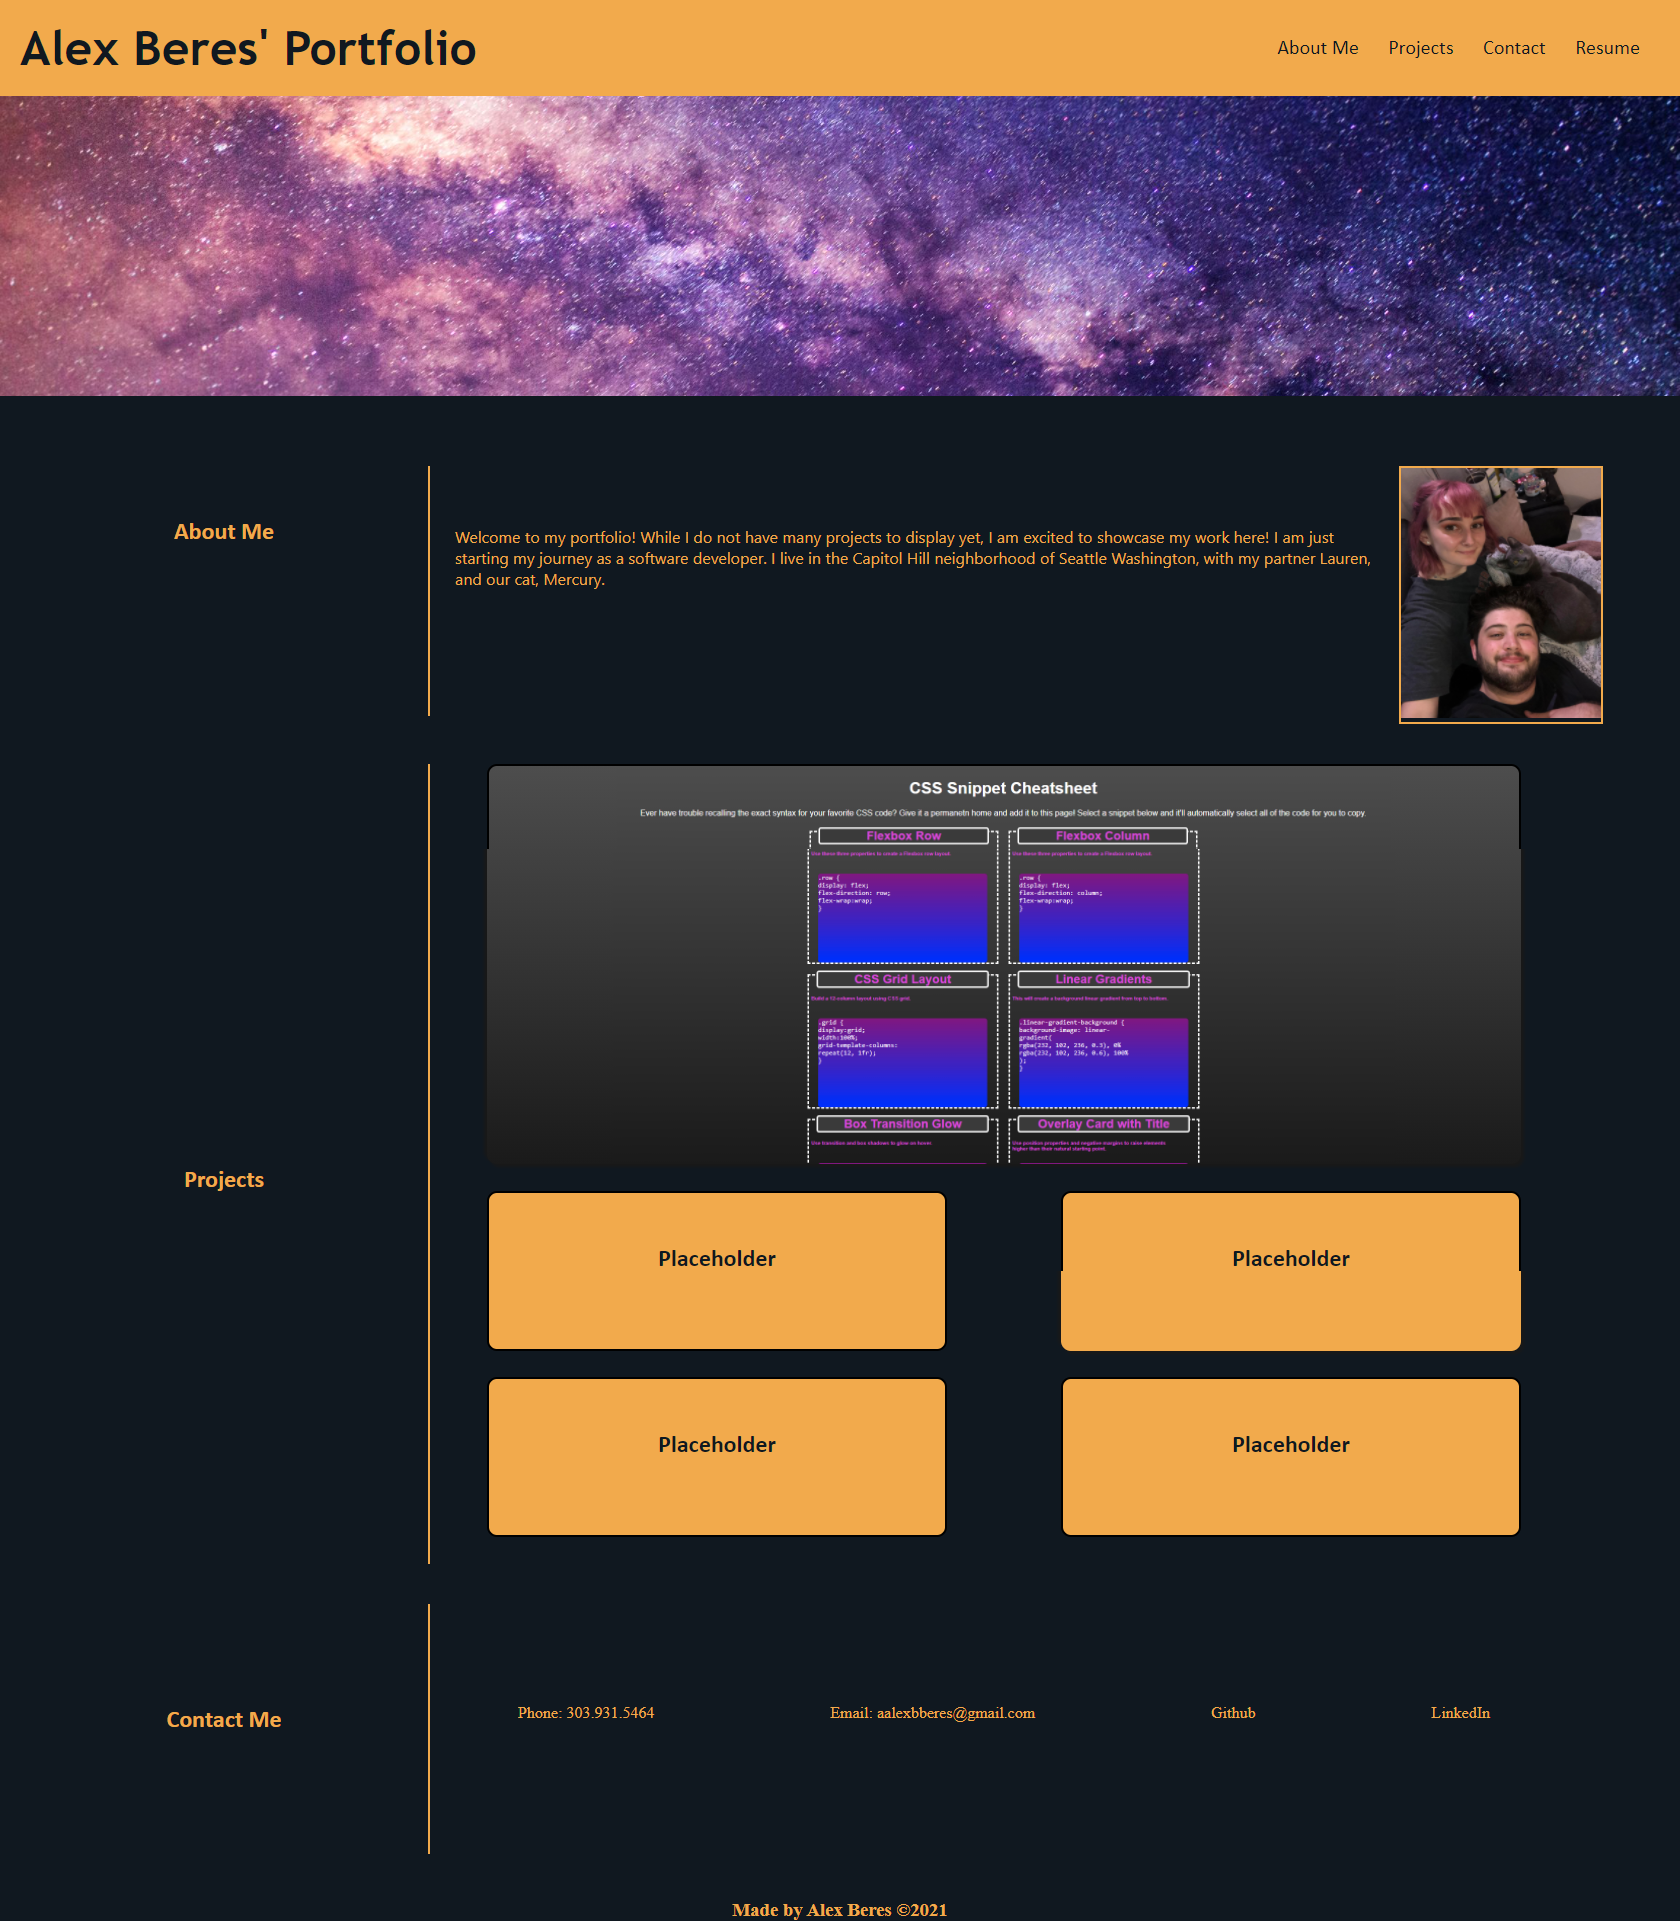
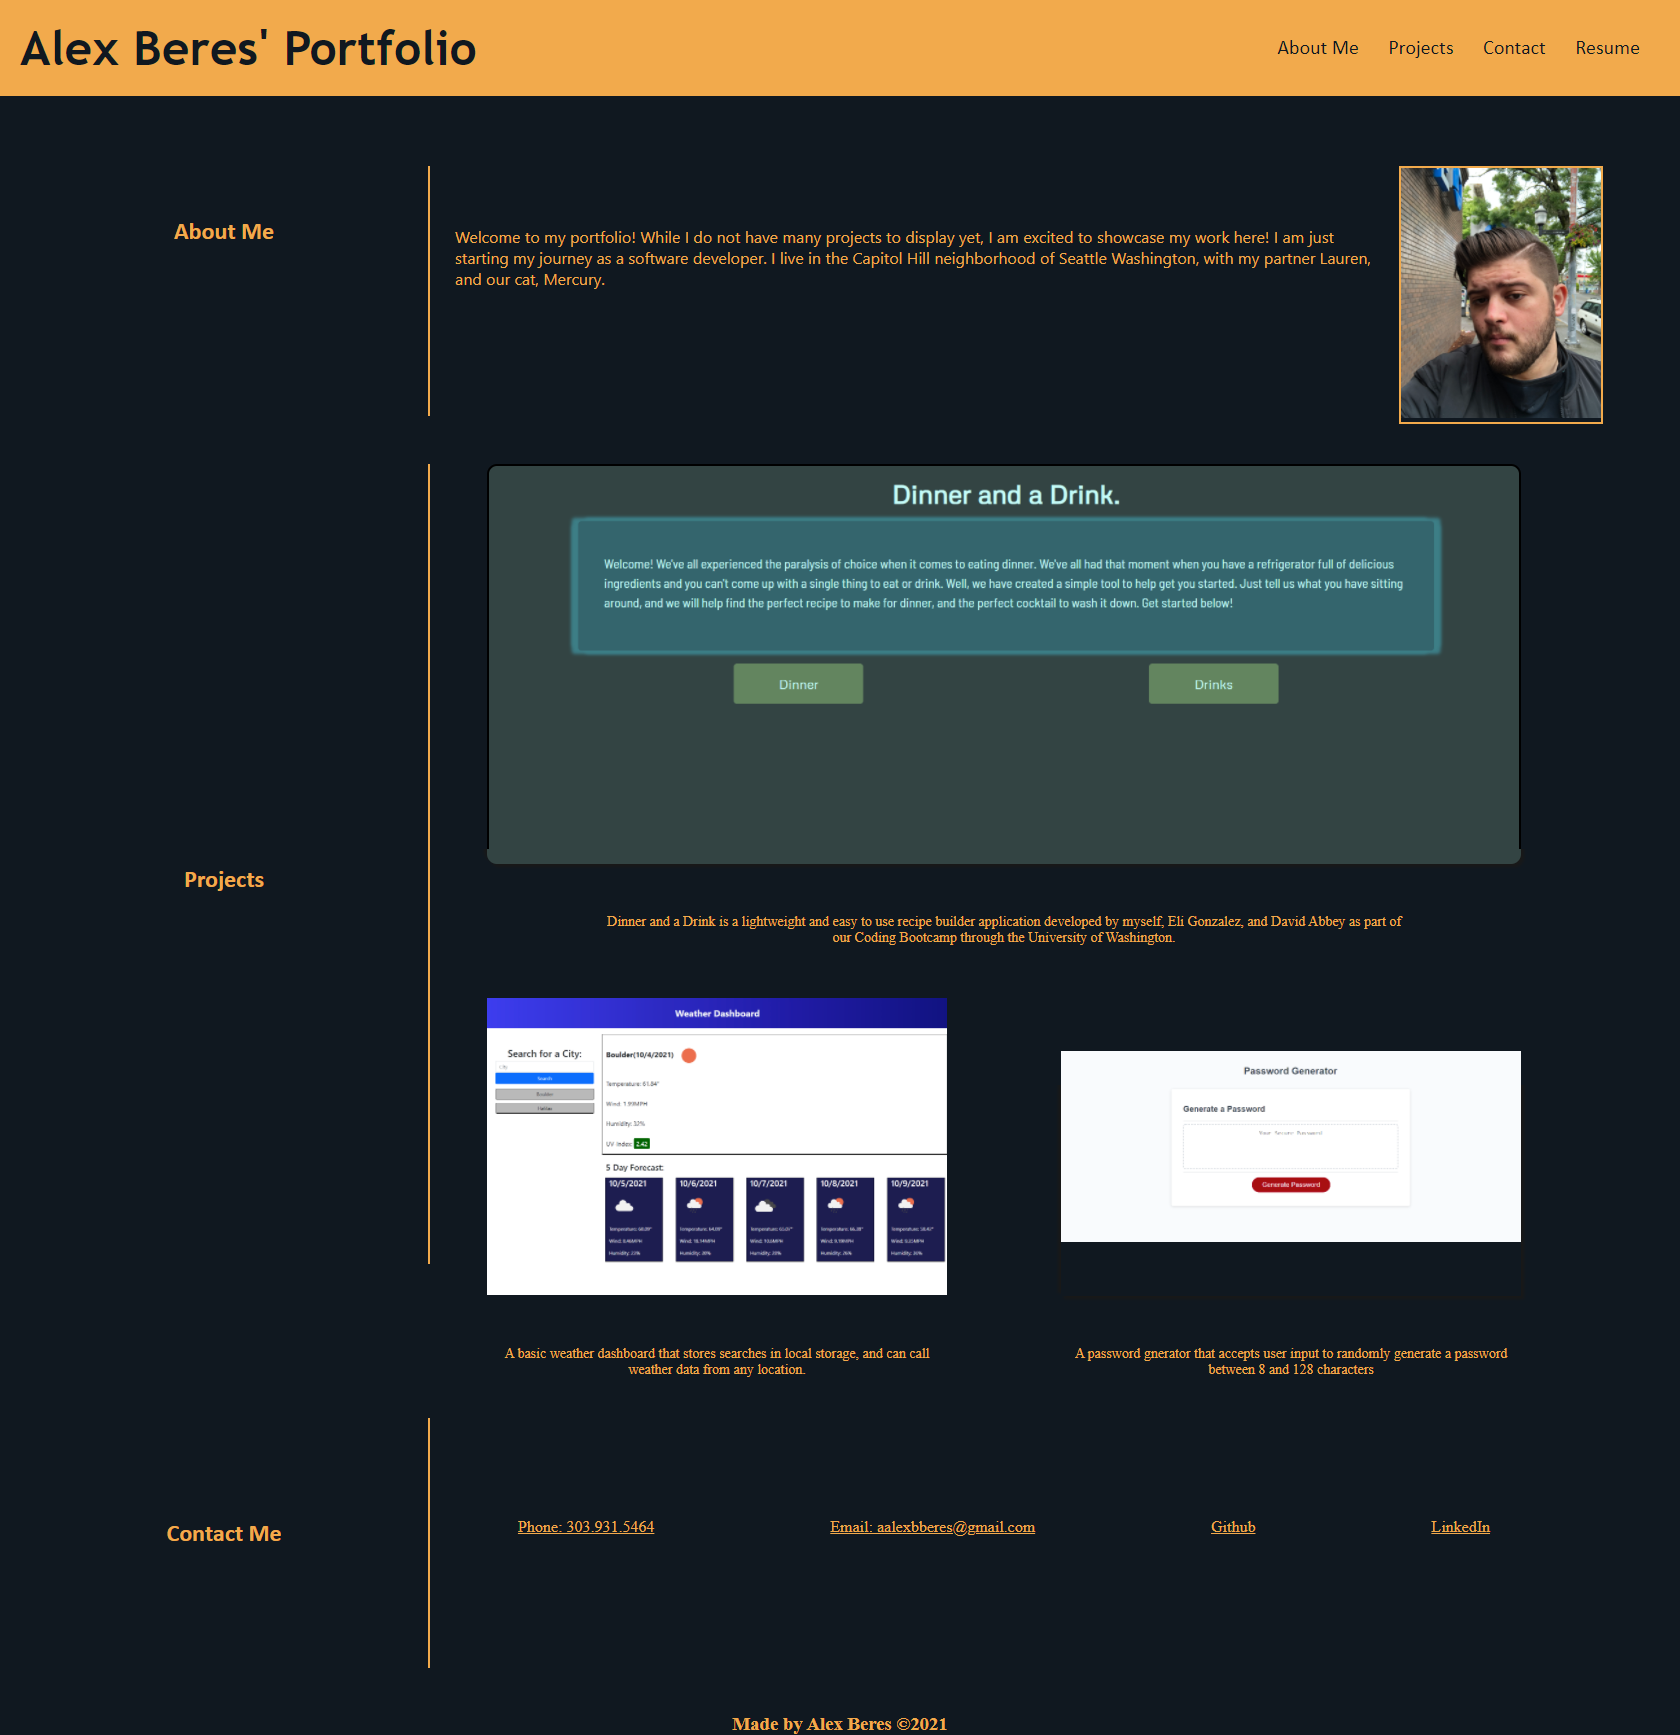
updated portfolio tiles and added licence

diff --git a/index.html b/index.html
@@ -21,9 +21,6 @@
       </ul>
     </nav>
   </header>
-  <div id="subheader">
-
-  </div>
   <main>
 
     <!-- About me section -->
@@ -34,7 +31,7 @@
         <p>Welcome to my portfolio! While I do not have many projects to display yet, I am excited to showcase my work here!  I am just starting my journey as a software developer.
           I live in the Capitol Hill neighborhood of Seattle Washington, with my partner Lauren, and our cat, Mercury.
         </p>
-        <section id="about-image"><img src="./assets/images/familypic.jpg" alt="familyphoto" width="200px" height="250px">
+        <section id="about-image"><img src="./assets/images/61359806213__E6906E70-1F6A-4F87-9992-AF163E4D1FC6.JPG" alt="profilepic" width="200px" height="250px">
         </section>
       </section>
 
@@ -43,11 +40,13 @@
       <h2>Projects</h2>
     </section>
     <section id="project-tiles">
-        <figure id="tile-1"><a href="https://wkropat.github.io/css-snippet-cheatsheet/" target="_blank"><img src="./assets/images/snippet-screen.png" alt="css-snippet"></a></figure>
-        <figure class="tile-ph"><p>Placeholder</p></figure>
-        <figure class="tile-ph"><p>Placeholder</p></figure>
-        <figure class="tile-ph"><p>Placeholder</p></figure>
-        <figure class="tile-ph"><p>Placeholder</p></figure>
+        <a id= "tile-1" href="https://alextheshire.github.io/dinner-and-a-drink/" target="_blank"></a>
+        <div id="dinner-text"><p>Dinner and a Drink is a lightweight and easy to use recipe builder application developed by myself, Eli Gonzalez, and David Abbey as part of our Coding Bootcamp through the University of Washington.</p></div>
+        <a id="weather-dashboard" class= "tile-ph" href="https://alextheshire.github.io/weather-dashboard/" target="_blank"></a>
+        <a id="password-generator" class= "tile-ph" href="https://alextheshire.github.io/password-generator/" target="_blank"></a>
+        <div class="tile-text"><p>A basic weather dashboard that stores searches in local storage, and can call weather data from any location.</p></div>
+        <div class="tile-text"><p>A password gnerator that accepts user input to randomly generate a password between 8 and 128 characters</p></div>
+
     </section>
     <section class="border-break"></section>
     <section id="contact">

diff --git a/assets/style.css b/assets/style.css
@@ -9,10 +9,14 @@
     box-sizing: border-box;
     padding: 0;
     margin: 0;
-    background: var(--main);
 }
 
-a {
+body {
+    background: var(--main);
+
+}
+
+header a {
     /* link formatting */
     text-decoration: none;
     color: var(--main);
@@ -123,6 +127,8 @@ h2 {
 
 #about-image {
     border: 2px solid var(--accent);
+    width: fit-content;
+    height: fit-content;
 }
 
 #projects {
@@ -147,9 +153,14 @@ h2 {
 #project-tiles p {
     text-align: center;
     margin-top: 50px;
-    color: var(--main);
-    font-size: 24px;
-    font-weight: bold;
+    color: var(--accent);
+    font-size: 14px;
+    /* font-weight: bold; */
+}
+
+#dinner-text {
+    width: 70%;
+    padding-bottom: 50px;
 }
 
 #contact {
@@ -190,31 +201,39 @@ footer {
 #tile-1 {
     /* main project tile */
     width: 90%;
-    background-image: linear-gradient(rgb(77, 77, 77), rgb(26, 26, 26)) ;
-    height: 50%;
+    background-image: url("./images/site1.png");
+    background-repeat: no-repeat;
+    background-position: center;
+    background-color: #334443;
+    background-size: contain;
+    height: 400px;
     display: flex;
     justify-content: center;
     border: 2px solid black;
     border-radius: 10px;
 }
 
-#tile-1 img {
-    max-width: 100%;
-    max-height: 100%;
-}
-
-.tile-ph {
-    /* placeholder tile class */
+#weather-dashboard {
     width: 40%;
-    height: 20%;
-    background-color: var(--accent);
-    border: 2px solid black;
-    border-radius: 10px;
+    height: 300px;
+    background-image: url("./images/weatherdashboard.png");
+    background-repeat: no-repeat;
+    background-position: center;
+    background-size: contain;
 }
 
-.tile-ph p {
-    background: var(--accent);
-    font-family: 'Gill Sans', 'Gill Sans MT', Calibri, 'Trebuchet MS', sans-serif;
+#password-generator {
+    width: 40%;
+    height: 300px;
+    background-image: url("./images/passgen.png");
+    background-repeat: no-repeat;
+    background-position: center;
+    background-size: contain;
+
+}
+
+.tile-text {
+    width: 40%;
 }
 
 /* hover effects for project tiles */
